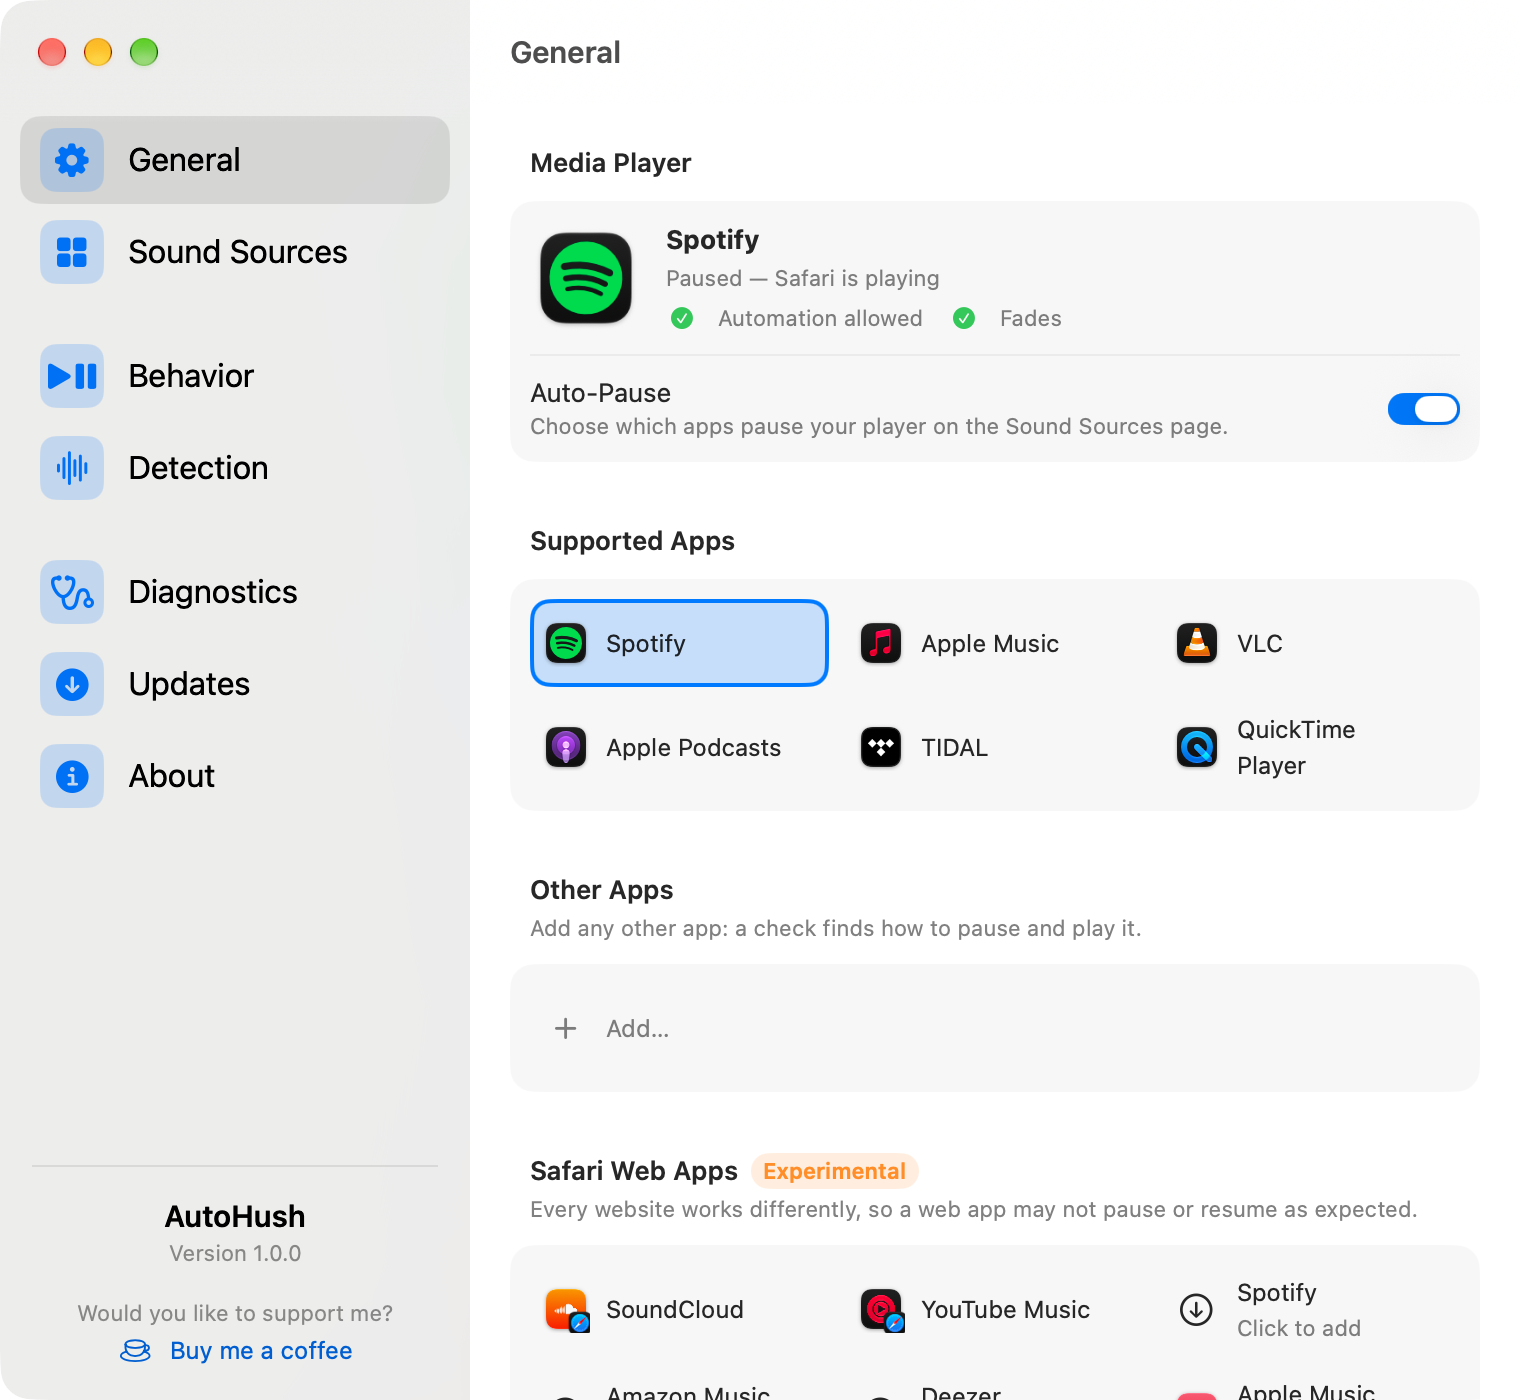
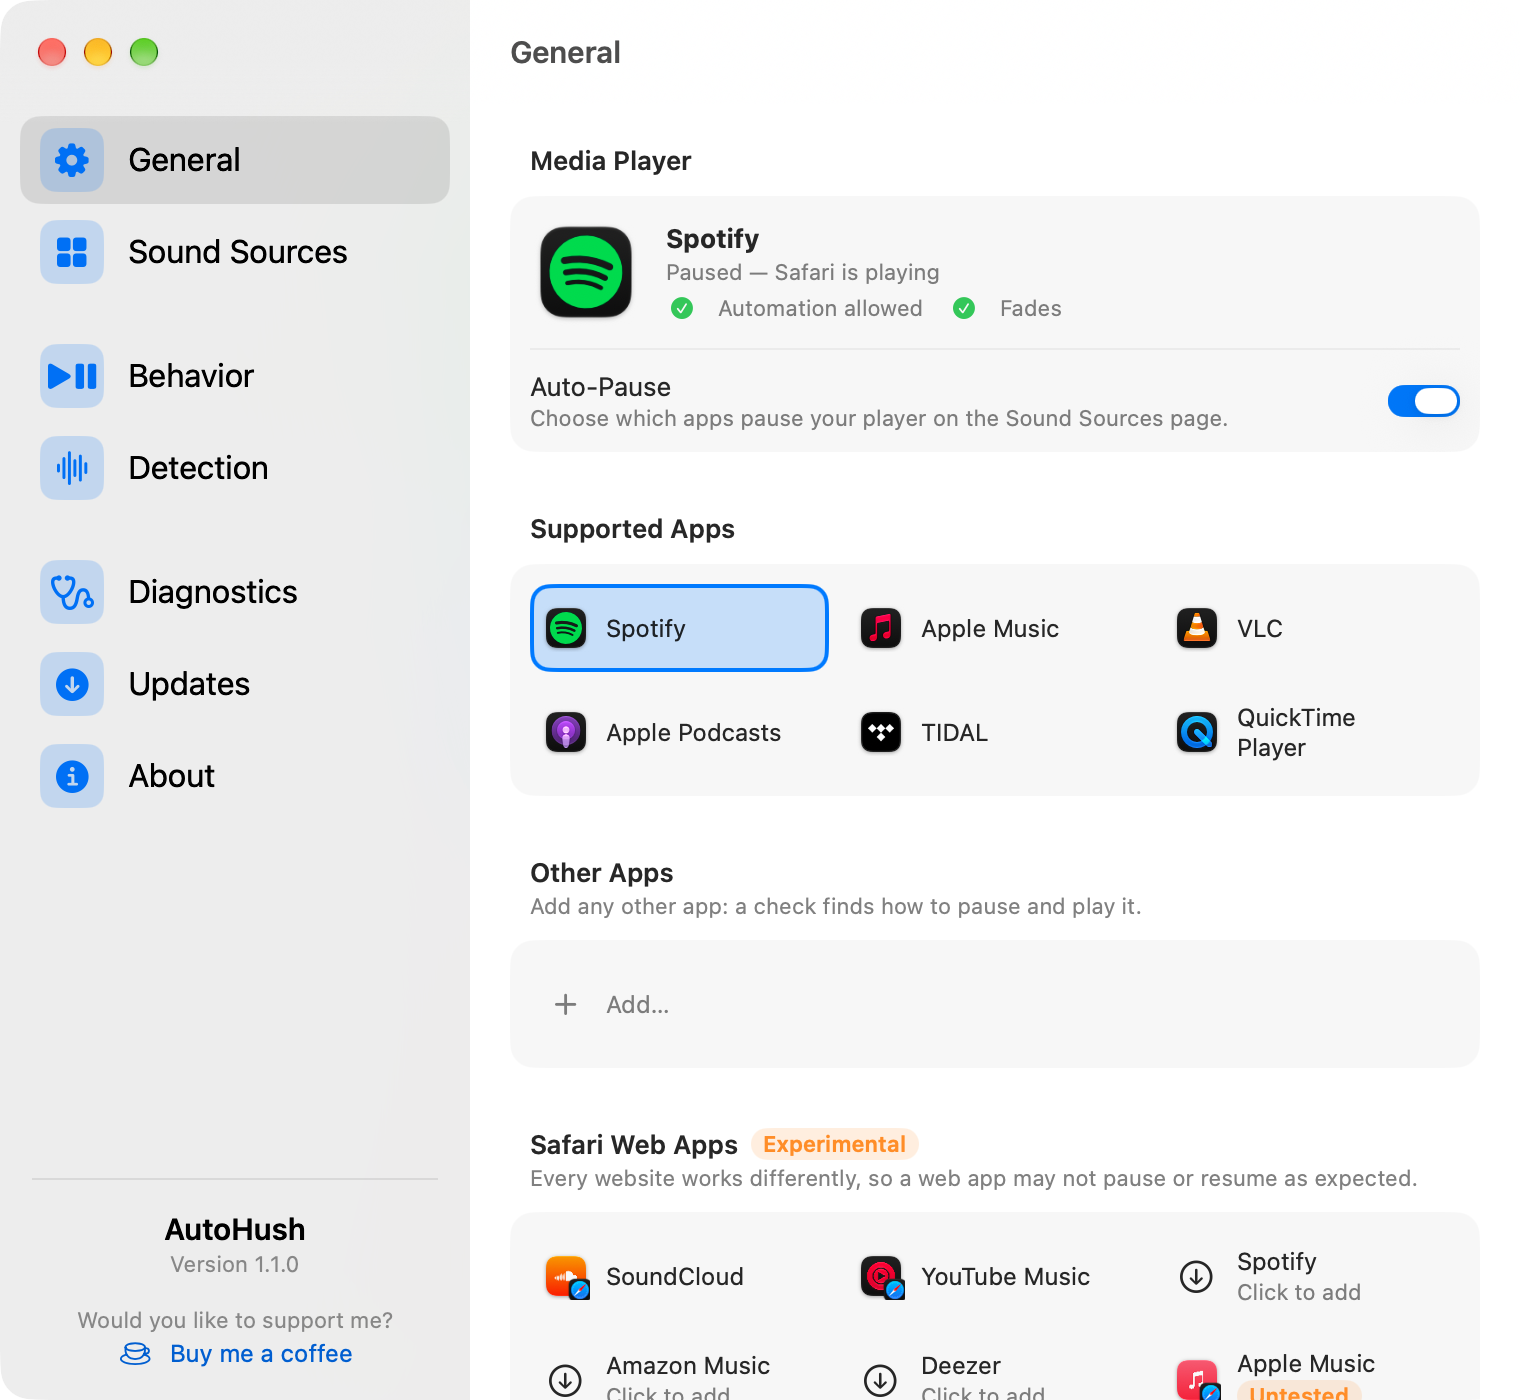
release: 1.1.0

diff --git a/CHANGELOG.md b/CHANGELOG.md
@@ -5,7 +5,7 @@ This project follows [Semantic Versioning](https://semver.org/).
 
 ---
 
-## [Unreleased]
+## [1.1.0] — 2026-10-25
 
 ### Added
 
